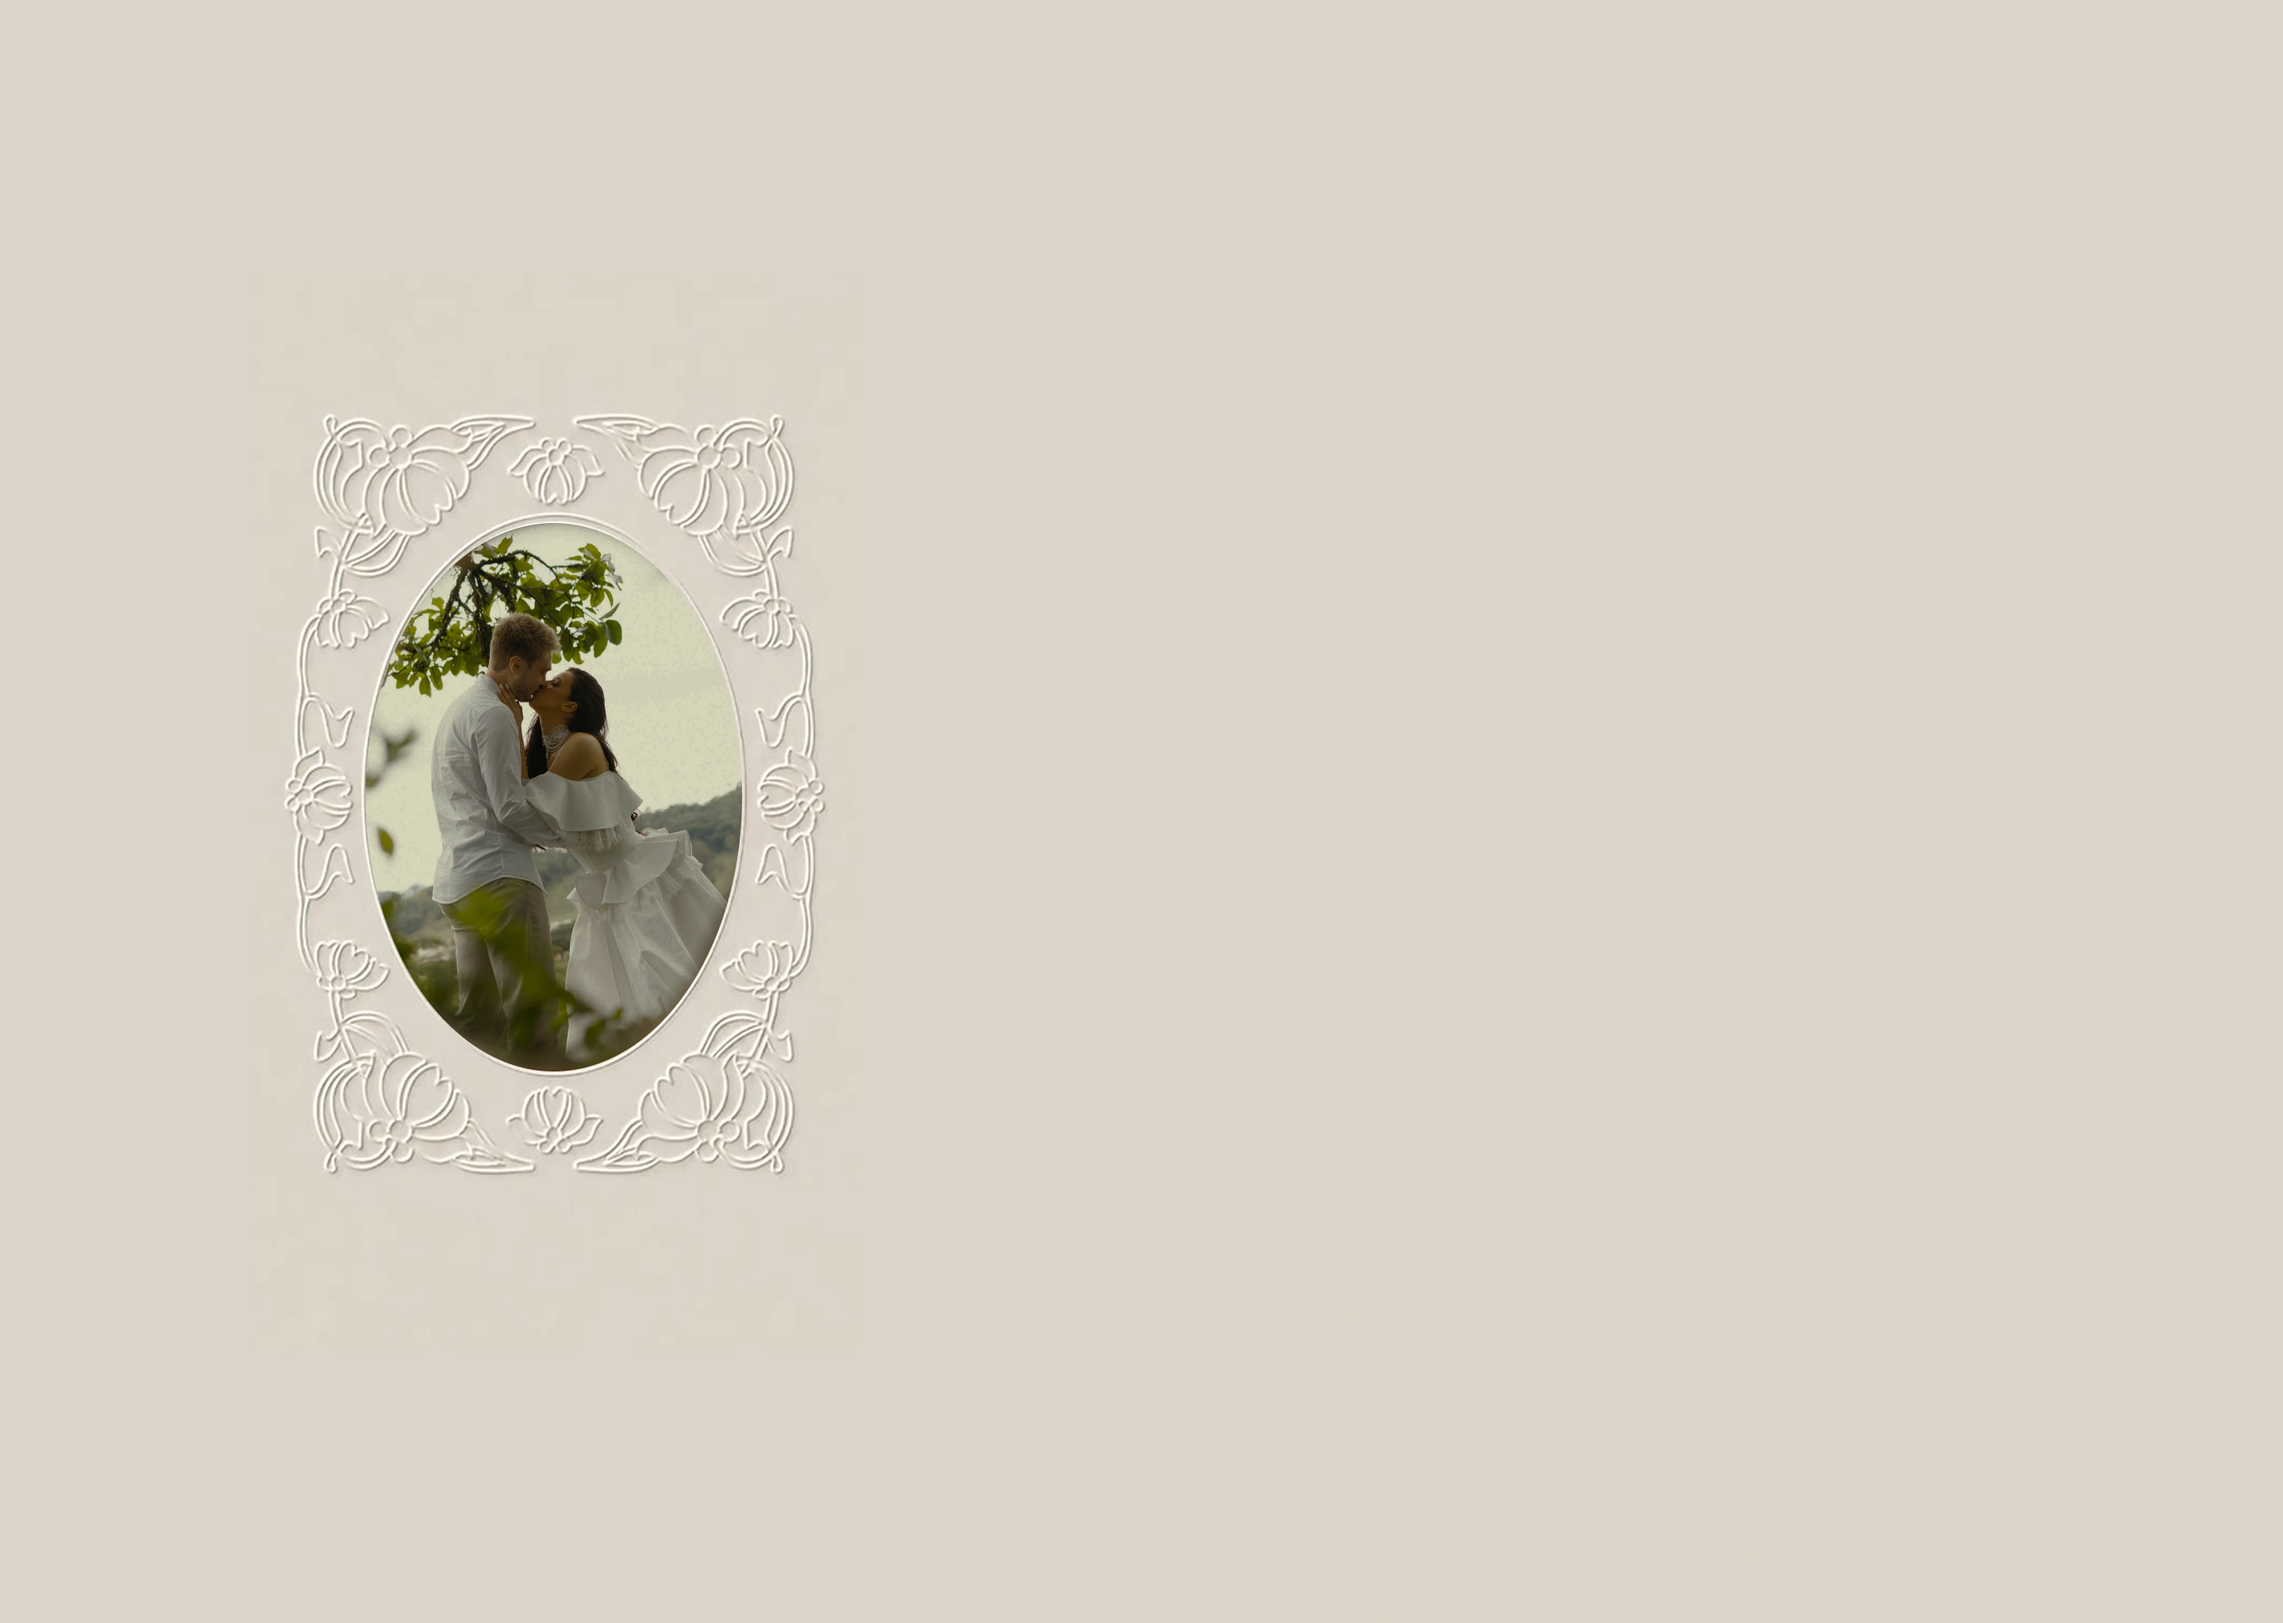
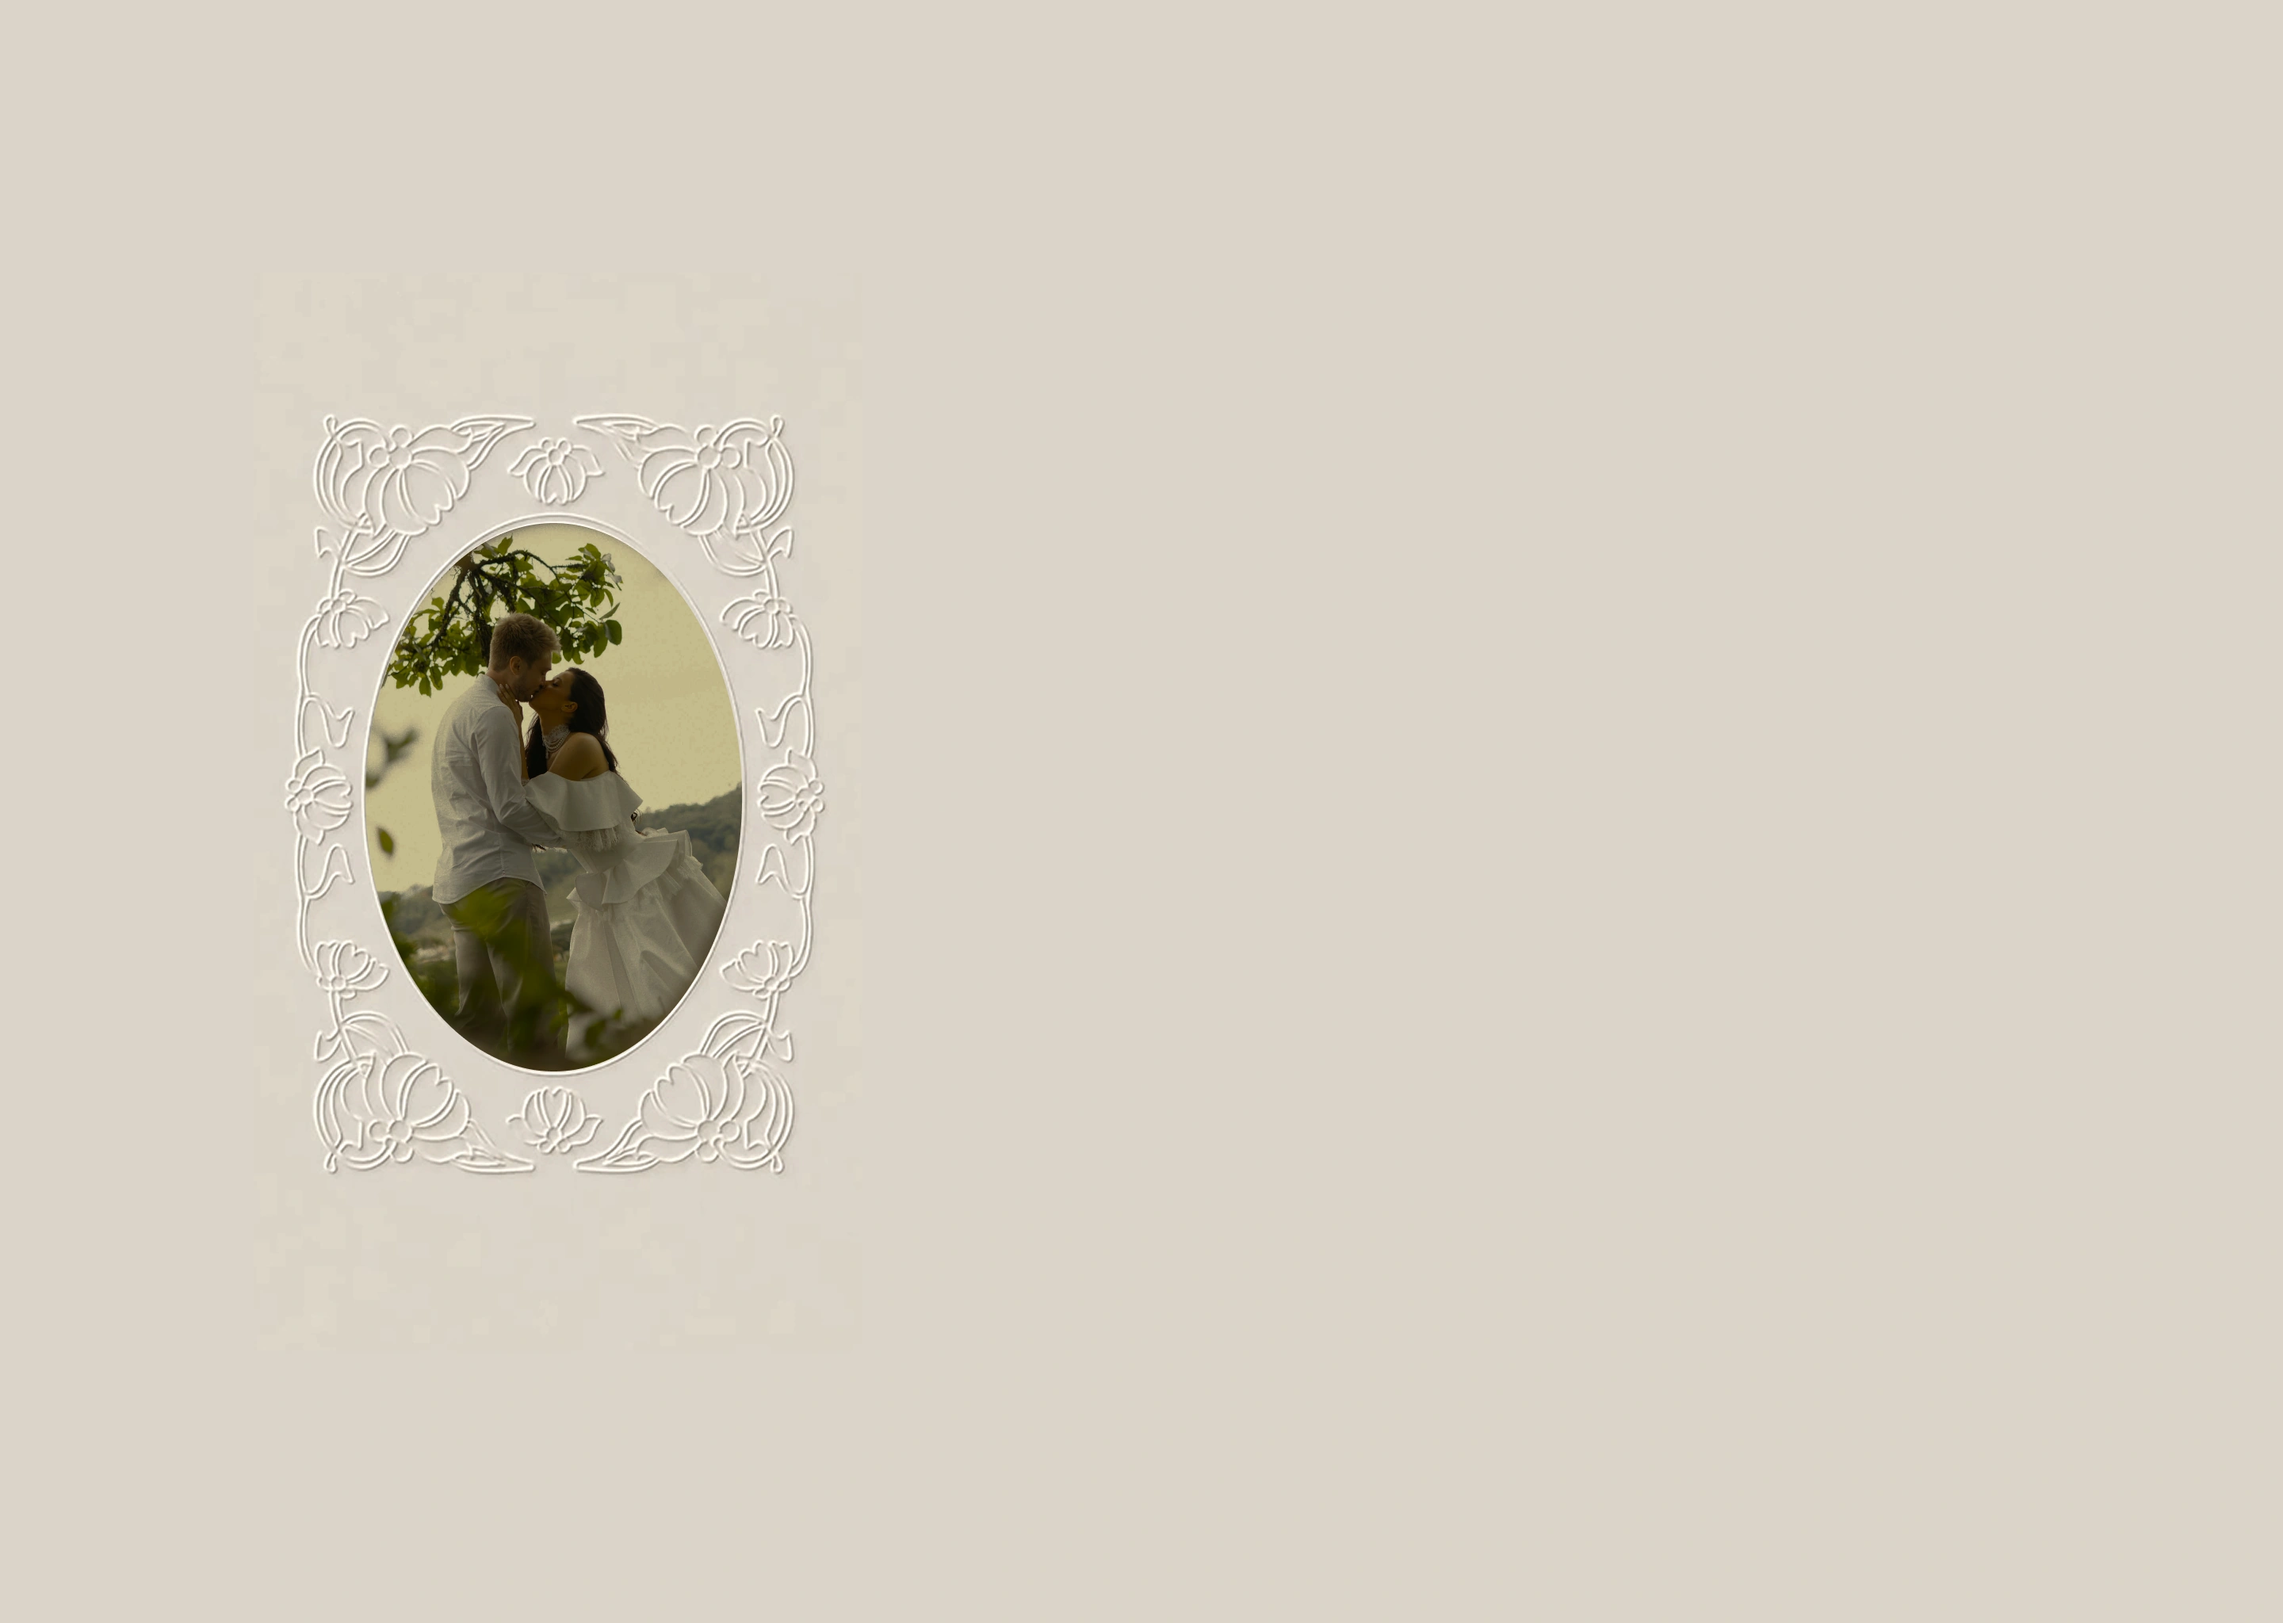
imagem

Changed region(s): [[0.1562, 0.3125, 0.3438, 0.625]]

diff --git a/styles.css b/styles.css
@@ -1099,6 +1099,13 @@ footer p {
 
 /* Tablet and iPad layout: keep mobile and desktop breakpoints unchanged. */
 @media (min-width: 701px) and (max-width: 1199px) {
+    .ceremony-desktop-view {
+        background-color: #DAD3C6;
+        background-size: contain;
+        background-position: center;
+        background-repeat: no-repeat;
+    }
+
     .ceremony-desktop-copy h2 {
         font-size: clamp(2rem, 0.5vw, 2rem);
     }
